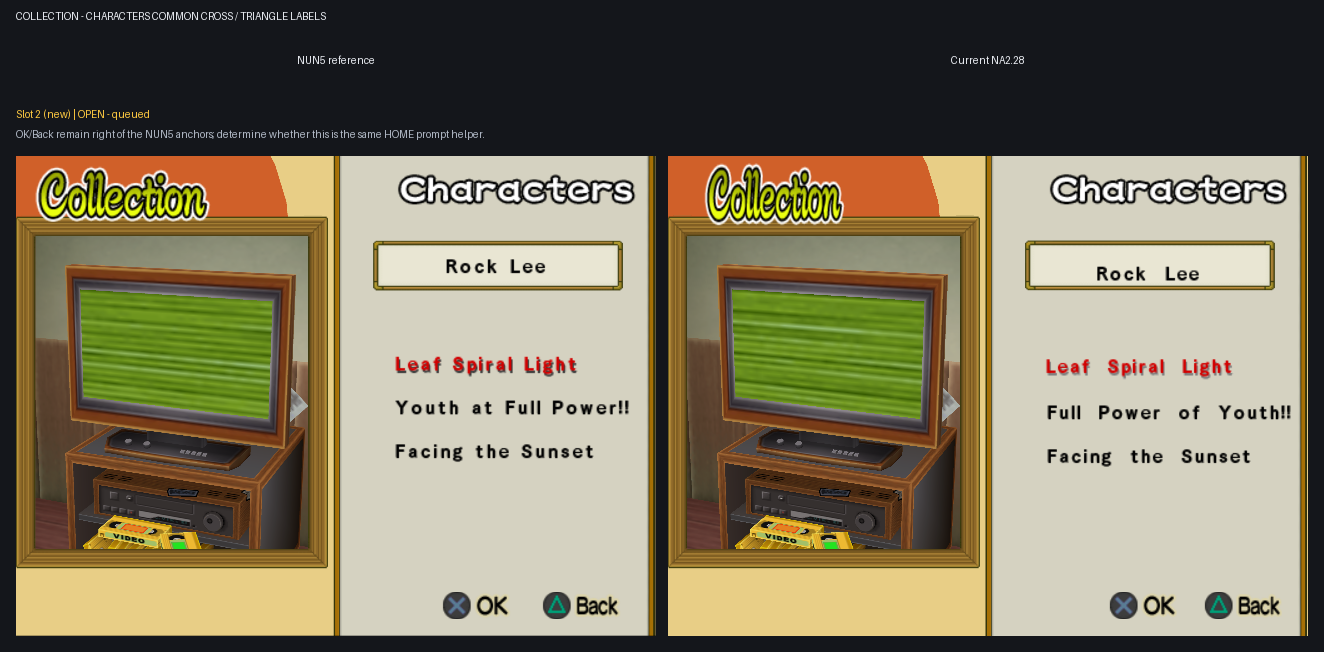
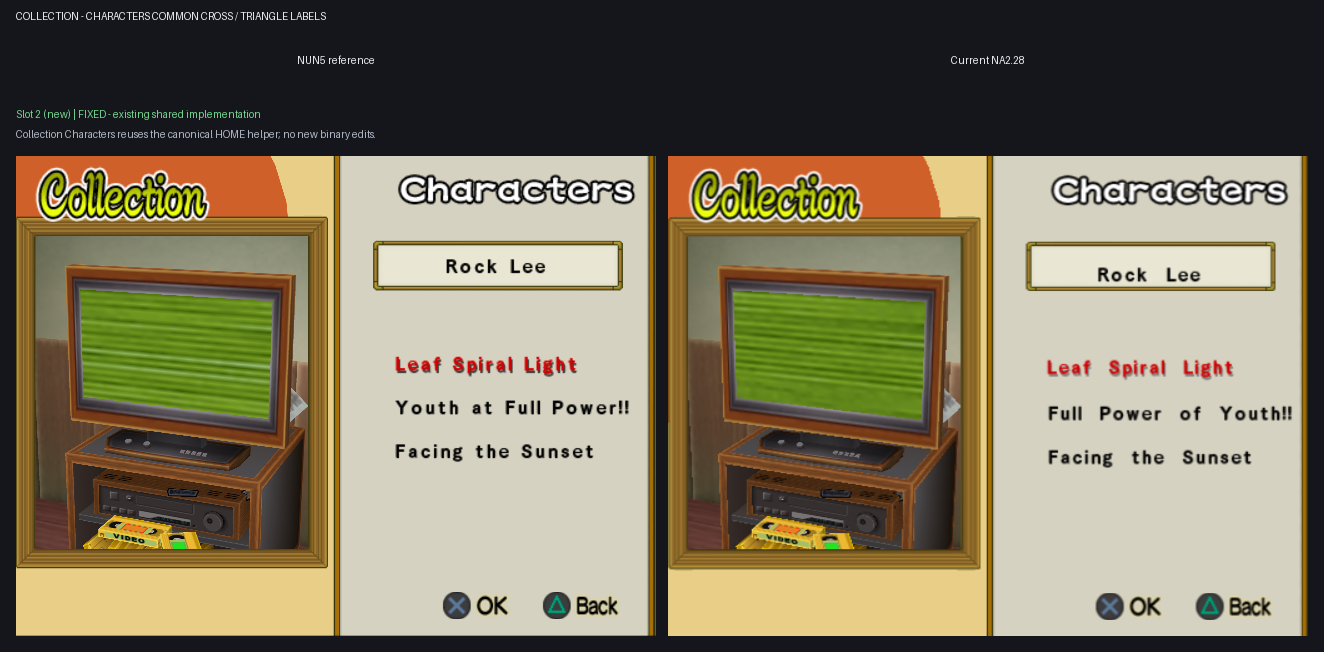
[UI Translation] Verify Collection Characters prompts

Changed region(s): [[0.4955, 0.2454, 0.9909, 0.9816], [0.0, 0.1534, 0.3716, 0.2147]]

diff --git a/docs/knowledge/localization/ui/collection.md b/docs/knowledge/localization/ui/collection.md
@@ -247,15 +247,19 @@ language accessors and reads build-specific GP-relative regional globals.
 The wrapper is therefore an authored ABI-preserving port of the verified NUN5
 arithmetic. The pristine zero range, all three call guards, and the data guard
 were confirmed in both the clean source and task-owned state. The guarded Slot
-3 render aligns Play and Back with the official NUN5 capture. Confidence is
-high for Slot 3 and the shared helper behavior; other retained screens that
-call it remain individually validated before acceptance.
+3 Music render aligns Play and Back with the official NUN5 capture. A newer
+paired Slot 2 Collection Characters state independently passed the same five
+guards; applying the already-canonical helper rows aligned its OK/Back groups
+with NUN5 without any new binary edit. Confidence is high for both screens and
+the shared helper behavior; other retained screens that call it remain
+individually validated before acceptance.
 
 Useful negative result: changing only the nominal `0x2E7E0` table cannot
 express the helper's three distinct `-12`, `-24`, and `-8` state deltas. The
-earlier Slot 2 failure of this path proved only that Slot 2 uses
-`FUN_006c8290` and the separate `0x2F010` table; it did not disprove the HOME
-helper for its actual consumers.
+earlier original Slot 2 Collection-root failure of this path proved only that
+that screen uses `FUN_006c8290` and the separate `0x2F010` table; it did not
+disprove the HOME helper for actual consumers such as Collection Music and
+Collection Characters.
 
 ## Character viewer lower-control renderer
 

diff --git a/docs/workstreams/ui_translation/plan.md b/docs/workstreams/ui_translation/plan.md
@@ -559,10 +559,12 @@ effective anchors at its separate overlay call sites; its guarded task-owned
 render matches the reference. Current Slots 1-5 are complete. New paired
 slot-1 Music Settings extends the existing `UI-ELF-009` renderer patch with
 effective NUN5 OK/Back anchors X=`388`/`462`; its guarded task-owned render
-matches the reference. The newer paired slot-2 Collection Characters footer
-remains queued. The
-earlier Slot 2 failure of the `0x2E7E0` table/HOME helper remains evidence only
-that Collection root uses a separate renderer. The rejected
+matches the reference. Newer paired slot-2 Collection Characters is a true
+reuse of the already-canonical `UI-ELF-008` HOME helper: the existing five
+guarded rows align its OK/Back groups with no new binary edit. Newer paired
+slot-3 Control Settings remains queued. The
+earlier original Slot 2 failure of the `0x2E7E0` table/HOME helper remains
+evidence only that Collection root uses a separate renderer. The rejected
 rank-label Y-compensation trial and exact pixel/object evidence are preserved
 in `docs/knowledge/localization/ui/battle.md`; resume from texture/CLUT binding
 or cached GS-packet evidence rather than retrying screen-space constants. The

diff --git a/docs/workstreams/ui_translation/epics/remaining_ui/README.md b/docs/workstreams/ui_translation/epics/remaining_ui/README.md
@@ -24,9 +24,11 @@ the right.
    sites and now matches the guarded NUN5 proof. The original paired slots 1-5
    are complete. Newer paired slot 1 Music Settings extends the existing
    resident Music footer patch with effective NUN5 OK/Back anchors and now
-   matches its guarded proof. Newer paired slot 2 Collection Characters remains
-   open. Correct only the Cross and Triangle labels across the preserved
-   screens as one shared subtask.
+   matches its guarded proof. Newer paired slot 2 Collection Characters is
+   confirmed fixed by the already-canonical shared HOME helper, with no new
+   binary edit. Newer paired slot 3 Control Settings still has right-shifted
+   OK/Back groups. Correct only the Cross and Triangle labels across the
+   preserved screens as one shared subtask.
 
 ## Report grids
 
@@ -49,3 +51,5 @@ the right.
 ![Cross/Triangle labels, newer Music Settings slot 1](09-cross-triangle-labels-new-slot1.png)
 
 ![Cross/Triangle labels, queued Collection Characters slot 2](10-cross-triangle-labels-new-slot2.png)
+
+![Cross/Triangle labels, queued Control Settings slot 3](11-cross-triangle-labels-new-slot3.png)
